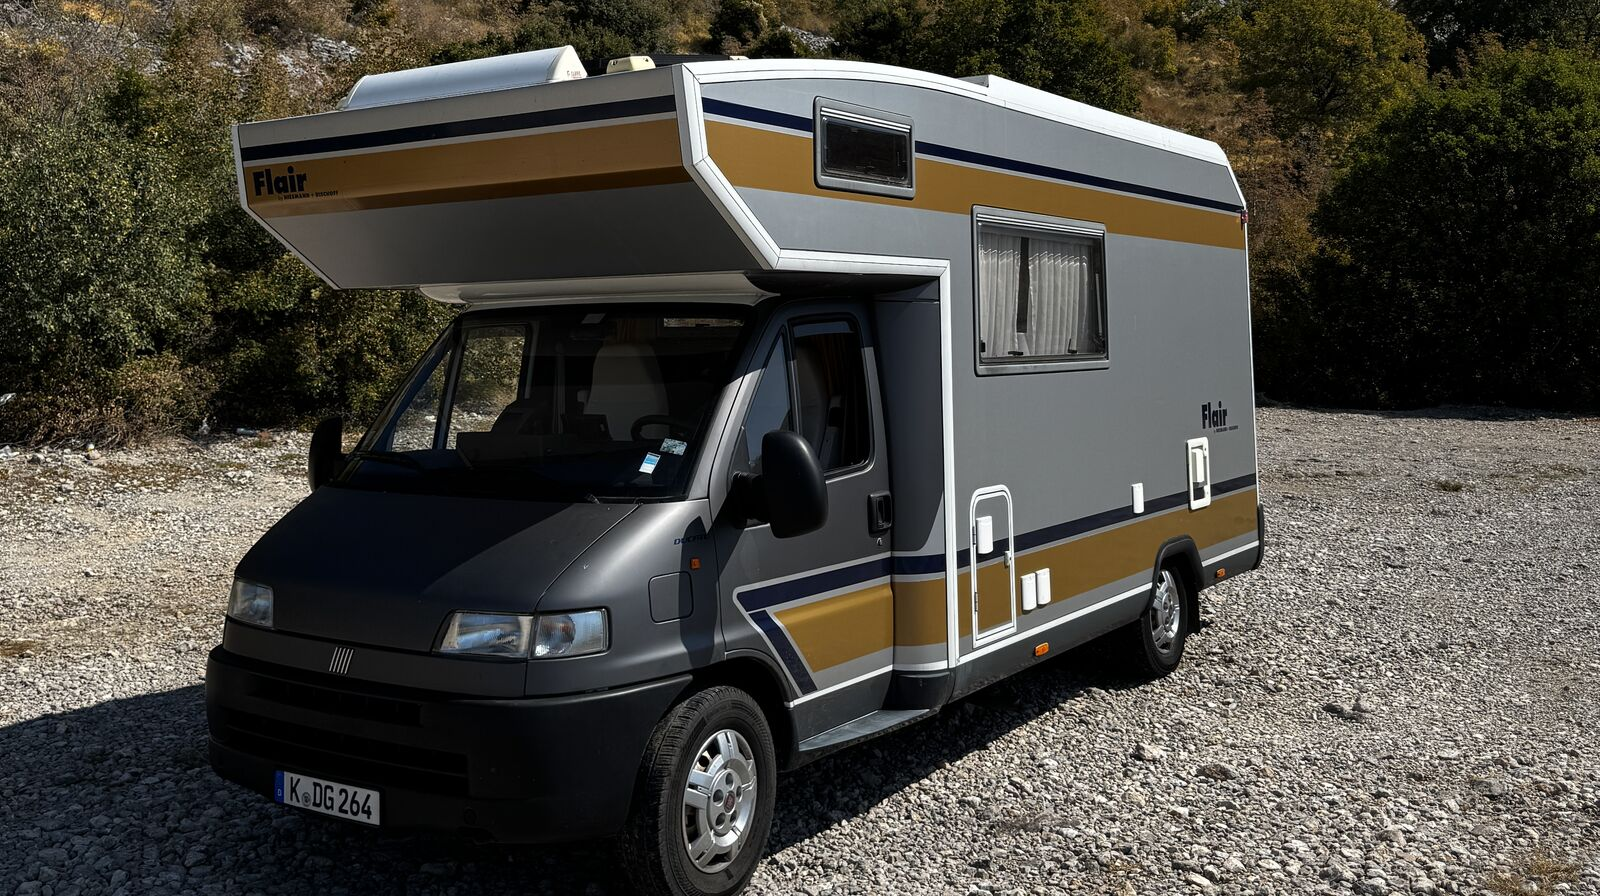
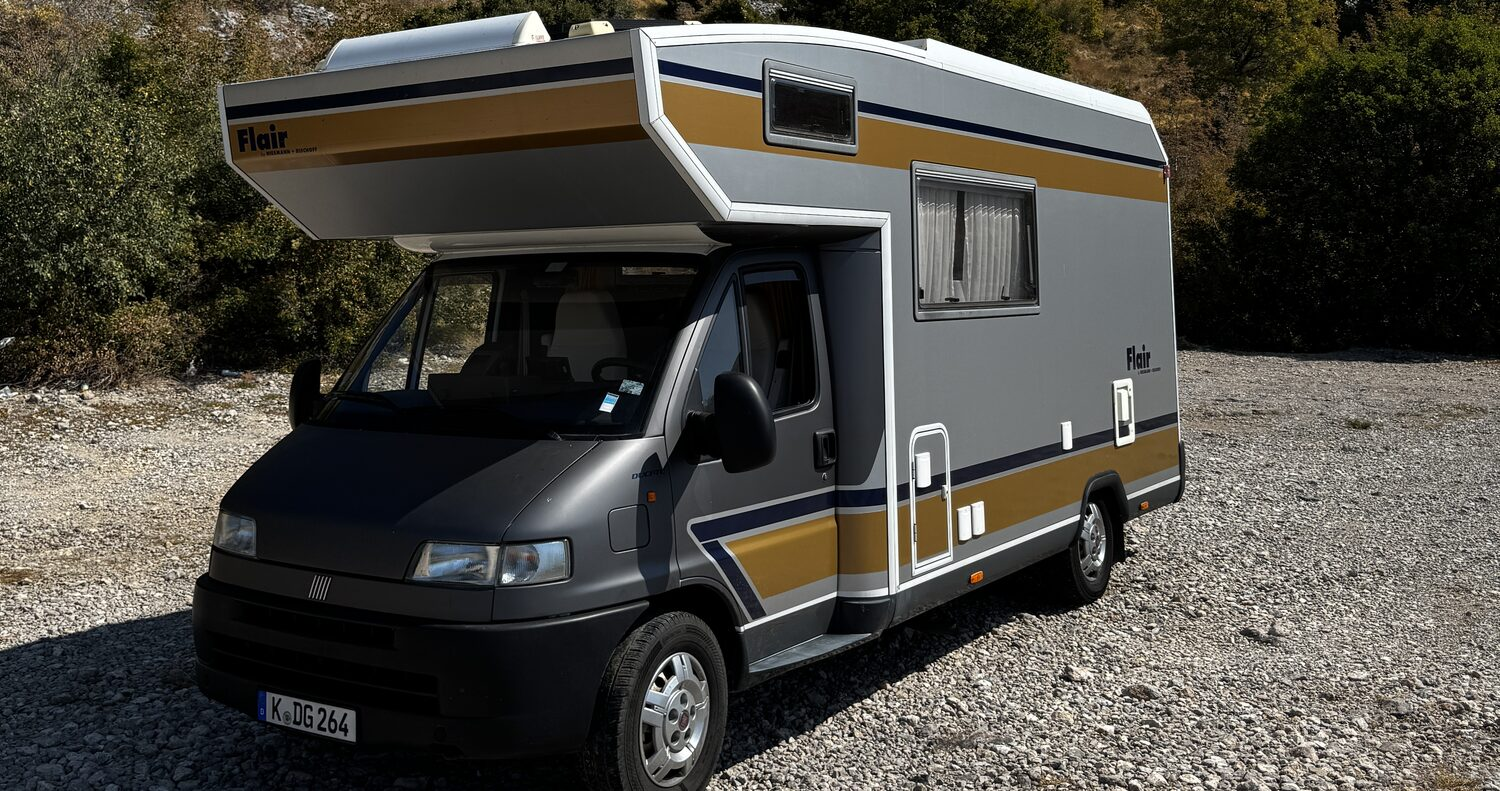
Bildband schneidet nichts mehr ab
Der Fehler war das object-fit mit fester Hoehe: Es hat dem Fahrzeug oben
das Dach und rechts das Heck genommen. Jetzt steckt der flache
Ausschnitt im Bild selbst (1,9:1, ganzes Fahrzeug drin), und das CSS
skaliert nur noch. Dazu 54 rem Breite statt voller Textbreite — damit
bleibt es das, was es sein soll: da, aber nicht praesent.

diff --git a/src/styles/global.css b/src/styles/global.css
@@ -4,7 +4,7 @@
    Vorlage: Dekor des Niesmann+Bischoff Flair — Creme-Aufbau, Nachtblau,
             Gold-Ocker, dazu die charakteristischen Zierstreifen
 
-   Version: 2.7.0
+   Version: 2.8.0
    Historie:
      1.0.0 (2026-08-18) — Erstanlage, neutrale Farben, hell und dunkel
      1.1.0 (2026-08-18) — Flair-Farben übernommen, Zierstreifen ergänzt
@@ -21,6 +21,9 @@
      2.6.0 (2026-08-24) — Fahrzeuggrafik deutlich kleiner; sie ist eine
                           Signatur neben der Überschrift, kein Titelbild
      2.7.0 (2026-08-24) — ruhiges Bildband für die Startseite
+     2.8.0 (2026-08-24) — Bildband schneidet nichts mehr ab. Der flache
+                          Ausschnitt steckt im Bild selbst, nicht in einem
+                          object-fit, das dem Fahrzeug Dach und Heck nahm
 --------------------------------------------------------------------------- */
 
 :root {
@@ -365,20 +368,20 @@ a { color: var(--gold-deep); }
    Textbreite, flach beschnitten, oben und unten viel Luft. */
 
 .bild-band {
-  margin: 3.5rem 0;
+  margin: 3.5rem auto;
+  max-width: 54rem;
   border-radius: var(--radius);
   overflow: hidden;
   border: 1px solid var(--border);
   line-height: 0;
 }
 
+/* Kein object-fit und keine feste Hoehe: Der flache Ausschnitt steckt im
+   Bild selbst. Alles andere schneidet dem Fahrzeug Dach oder Heck ab. */
 .bild-band img {
   display: block;
   width: 100%;
   height: auto;
-  max-height: 22rem;
-  object-fit: cover;
-  object-position: center 55%;
 }
 
 /* ---------- Artikel ---------- */
